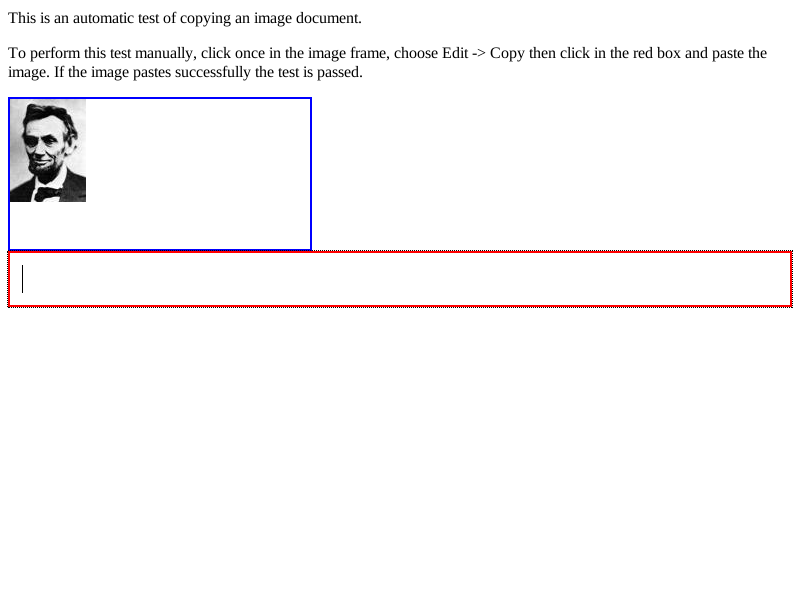
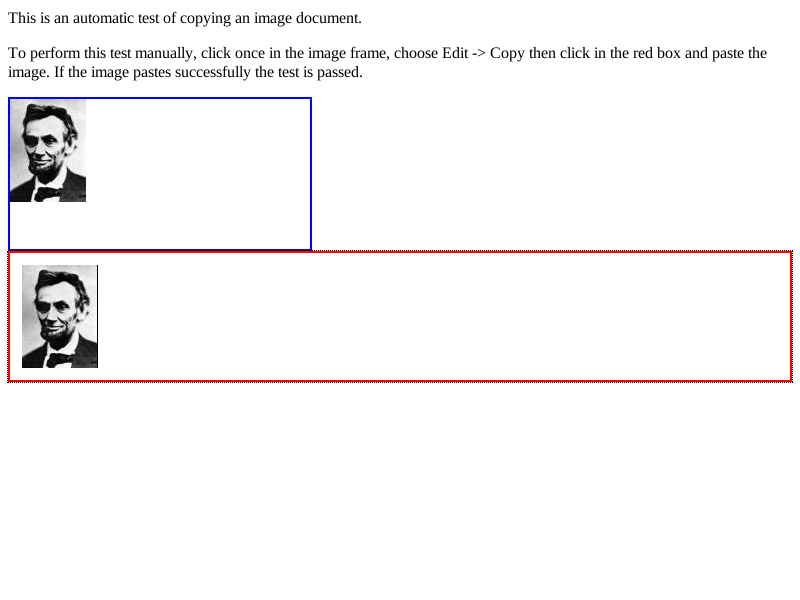
2011-02-03  Martin Robinson  <mrobinson@igalia.com>
Reviewed by Xan Lopez.

        [GTK] editing/pasteboard/copy-standalone-image.html fails
        https://bugs.webkit.org/show_bug.cgi?id=53645

        Unskip the test and add new expected results for it.

        * platform/gtk/Skipped: Unskip this test as it is now passing.
        * platform/gtk/editing/pasteboard/copy-standalone-image-expected.checksum:
        * platform/gtk/editing/pasteboard/copy-standalone-image-expected.png:
        * platform/gtk/editing/pasteboard/copy-standalone-image-expected.txt:
2011-02-03  Martin Robinson  <mrobinson@igalia.com>

        Reviewed by Xan Lopez.

        [GTK] editing/pasteboard/copy-standalone-image.html fails
        https://bugs.webkit.org/show_bug.cgi?id=53645

        When writing an image to the clipboard, also write the URL and title
        into the markup and URL portion. This change also abstracts a helper
        imageToMarkup into markup.{cpp/h} from several different locations
        throughout the platform layer.

        * editing/markup.h: Added new function definition.
        * editing/markup.cpp:
        (WebCore::imageToMarkup): Add this function which turns an image URL
        and element into some markup representing that image, while preserving
        non-src attributes.
        * platform/chromium/ClipboardChromium.cpp: Move the imageToMarkup helper
        to markup.cpp.
        * platform/gtk/PasteboardGtk.cpp:
        (WebCore::getURLForImageNode): Add this helper which gets the appropriate
[…]

Changed region(s): [[0.0, 0.42, 1.0, 0.66], [0.9688, 0.51, 1.0, 0.54]]

diff --git a/Source/WebCore/platform/gtk/PasteboardGtk.cpp b/Source/WebCore/platform/gtk/PasteboardGtk.cpp
@@ -23,17 +23,24 @@
 #include "DataObjectGtk.h"
 #include "DocumentFragment.h"
 #include "Frame.h"
+#include "GOwnPtrGtk.h"
+#include "HTMLNames.h"
+#include "HTMLParserIdioms.h"
+#include "KURL.h"
 #include "NotImplemented.h"
 #include "PlatformString.h"
 #include "TextResourceDecoder.h"
 #include "Image.h"
 #include "RenderImage.h"
-#include "KURL.h"
 #include "markup.h"
+#include <gtk/gtk.h>
 #include <wtf/gobject/GRefPtr.h>
 #include <wtf/text/CString.h>
 
-#include <gtk/gtk.h>
+#if ENABLE(SVG)
+#include "SVGNames.h"
+#include "XLinkNames.h"
+#endif
 
 namespace WebCore {
 
@@ -91,11 +98,27 @@ void Pasteboard::writeURL(const KURL& url, const String& label, Frame* frame)
     m_helper->writeClipboardContents(clipboard);
 }
 
-void Pasteboard::writeImage(Node* node, const KURL&, const String&)
+static KURL getURLForImageNode(Node* node)
 {
-    GtkClipboard* clipboard = gtk_clipboard_get_for_display(gdk_display_get_default(), GDK_SELECTION_CLIPBOARD);
+    // FIXME: Later this code should be shared with Chromium somehow. Chances are all platforms want it.
+    AtomicString urlString;
+    if (node->hasTagName(HTMLNames::imgTag) || node->hasTagName(HTMLNames::inputTag))
+        urlString = static_cast<Element*>(node)->getAttribute(HTMLNames::srcAttr);
+#if ENABLE(SVG)
+    else if (node->hasTagName(SVGNames::imageTag))
+        urlString = static_cast<Element*>(node)->getAttribute(XLinkNames::hrefAttr);
+#endif
+    else if (node->hasTagName(HTMLNames::embedTag) || node->hasTagName(HTMLNames::objectTag)) {
+        Element* element = static_cast<Element*>(node);
+        urlString = element->getAttribute(element->imageSourceAttributeName());
+    }
+    return urlString.isEmpty() ? KURL() : node->document()->completeURL(stripLeadingAndTrailingHTMLSpaces(urlString));
+}
 
-    ASSERT(node && node->renderer() && node->renderer()->isImage());
+void Pasteboard::writeImage(Node* node, const KURL&, const String& title)
+{
+    ASSERT(node);
+    ASSERT(node->renderer());
     RenderImage* renderer = toRenderImage(node->renderer());
     CachedImage* cachedImage = renderer->cachedImage();
     if (!cachedImage || cachedImage->errorOccurred())
@@ -103,9 +126,23 @@ void Pasteboard::writeImage(Node* node, const KURL&, const String&)
     Image* image = cachedImage->image();
     ASSERT(image);
 
-    GRefPtr<GdkPixbuf> pixbuf = adoptGRef(image->getGdkPixbuf());
+    GtkClipboard* clipboard = gtk_clipboard_get_for_display(gdk_display_get_default(), GDK_SELECTION_CLIPBOARD);
     DataObjectGtk* dataObject = DataObjectGtk::forClipboard(clipboard);
+
+    KURL url = getURLForImageNode(node);
+    if (!url.isEmpty()) {
+        dataObject->setURL(url, title);
+
+        // This image may be an SVG, embed, or object tag, so do not write the image
+        // tag markup in those cases. Eventually we may want to support passing markup
+        // for these tag types.
+        if (node->hasTagName(HTMLNames::imgTag))
+            dataObject->setMarkup(imageToMarkup(url, static_cast<Element*>(node)));
+    }
+
+    GRefPtr<GdkPixbuf> pixbuf = adoptGRef(image->getGdkPixbuf());
     dataObject->setImage(pixbuf.get());
+
     m_helper->writeClipboardContents(clipboard);
 }
 

diff --git a/Source/WebCore/platform/chromium/ClipboardChromium.cpp b/Source/WebCore/platform/chromium/ClipboardChromium.cpp
@@ -195,33 +195,6 @@ DragImageRef ClipboardChromium::createDragImage(IntPoint& loc) const
     return result;
 }
 
-static String imageToMarkup(const String& url, Element* element)
-{
-    StringBuilder markup;
-    markup.append("<img src=\"");
-    markup.append(url);
-    markup.append('"');
-    // Copy over attributes.  If we are dragging an image, we expect things like
-    // the id to be copied as well.
-    NamedNodeMap* attrs = element->attributes();
-    unsigned length = attrs->length();
-    for (unsigned i = 0; i < length; ++i) {
-        Attribute* attr = attrs->attributeItem(i);
-        if (attr->localName() == "src")
-            continue;
-        markup.append(' ');
-        markup.append(attr->localName());
-        markup.append("=\"");
-        String escapedAttr = attr->value();
-        escapedAttr.replace("\"", "&quot;");
-        markup.append(escapedAttr);
-        markup.append('"');
-    }
-
-    markup.append("/>");
-    return markup.toString();
-}
-
 static CachedImage* getCachedImage(Element* element)
 {
     // Attempt to pull CachedImage from element
@@ -281,7 +254,7 @@ void ClipboardChromium::declareAndWriteDragImage(Element* element, const KURL& u
     if (imageURL.isEmpty())
         return;
 
-    String fullURL = frame->document()->completeURL(stripLeadingAndTrailingHTMLSpaces(imageURL));
+    KURL fullURL = frame->document()->completeURL(stripLeadingAndTrailingHTMLSpaces(imageURL));
     if (fullURL.isEmpty())
         return;
 

diff --git a/Source/WebCore/editing/markup.cpp b/Source/WebCore/editing/markup.cpp
@@ -1,5 +1,7 @@
 /*
  * Copyright (C) 2004, 2005, 2006, 2007, 2008, 2009 Apple Inc. All rights reserved.
+ * Copyright (C) 2008, 2009 Google Inc.
+ * Copyright (C) 2011 Igalia S.L.
  *
  * Redistribution and use in source and binary forms, with or without
  * modification, are permitted provided that the following conditions
@@ -911,6 +913,30 @@ String urlToMarkup(const KURL& url, const String& title)
     append(markup, "\">");
     appendCharactersReplacingEntities(markup, title.characters(), title.length(), EntityMaskInPCDATA);
     append(markup, "</a>");
+    return String::adopt(markup);
+}
+
+String imageToMarkup(const KURL& url, Element* element)
+{
+    Vector<UChar> markup;
+    append(markup, "<img src=\"");
+    append(markup, url.string());
+    append(markup, "\"");
+
+    NamedNodeMap* attrs = element->attributes();
+    unsigned length = attrs->length();
+    for (unsigned i = 0; i < length; ++i) {
+        Attribute* attr = attrs->attributeItem(i);
+        if (attr->localName() == "src")
+            continue;
+        append(markup, " ");
+        append(markup, attr->localName());
+        append(markup, "=\"");
+        appendCharactersReplacingEntities(markup, attr->value().characters(), attr->value().length(), EntityMaskInAttributeValue);
+        append(markup, "\"");
+    }
+
+    append(markup, "/>");
     return String::adopt(markup);
 }
 

diff --git a/Source/WebCore/platform/win/ClipboardWin.cpp b/Source/WebCore/platform/win/ClipboardWin.cpp
@@ -631,14 +631,6 @@ DragImageRef ClipboardWin::createDragImage(IntPoint& loc) const
     return result;
 }
 
-static String imageToMarkup(const String& url)
-{
-    String markup("<img src=\"");
-    markup.append(url);
-    markup.append("\"/>");
-    return markup;
-}
-
 static CachedImage* getCachedImage(Element* element)
 {
     // Attempt to pull CachedImage from element
@@ -698,7 +690,7 @@ void ClipboardWin::declareAndWriteDragImage(Element* element, const KURL& url, c
     if (imageURL.isEmpty()) 
         return;
 
-    String fullURL = frame->document()->completeURL(stripLeadingAndTrailingHTMLSpaces(imageURL)).string();
+    KURL fullURL = frame->document()->completeURL(stripLeadingAndTrailingHTMLSpaces(imageURL));
     if (fullURL.isEmpty()) 
         return;
     STGMEDIUM medium = {0};
@@ -706,7 +698,7 @@ void ClipboardWin::declareAndWriteDragImage(Element* element, const KURL& url, c
 
     // Put img tag on the clipboard referencing the image
     Vector<char> data;
-    markupToCFHTML(imageToMarkup(fullURL), "", data);
+    markupToCFHTML(imageToMarkup(fullURL, element), "", data);
     medium.hGlobal = createGlobalData(data);
     if (medium.hGlobal && FAILED(m_writableDataObject->SetData(htmlFormat(), &medium, TRUE)))
         ::GlobalFree(medium.hGlobal);

diff --git a/Source/WebCore/editing/markup.h b/Source/WebCore/editing/markup.h
@@ -35,6 +35,7 @@ namespace WebCore {
 
     class Document;
     class DocumentFragment;
+    class Element;
     class KURL;
     class Node;
     class Range;
@@ -56,6 +57,7 @@ namespace WebCore {
     String createFullMarkup(const Range*);
 
     String urlToMarkup(const KURL&, const String& title);
+    String imageToMarkup(const KURL&, Element*);
 }
 
 #endif // markup_h
